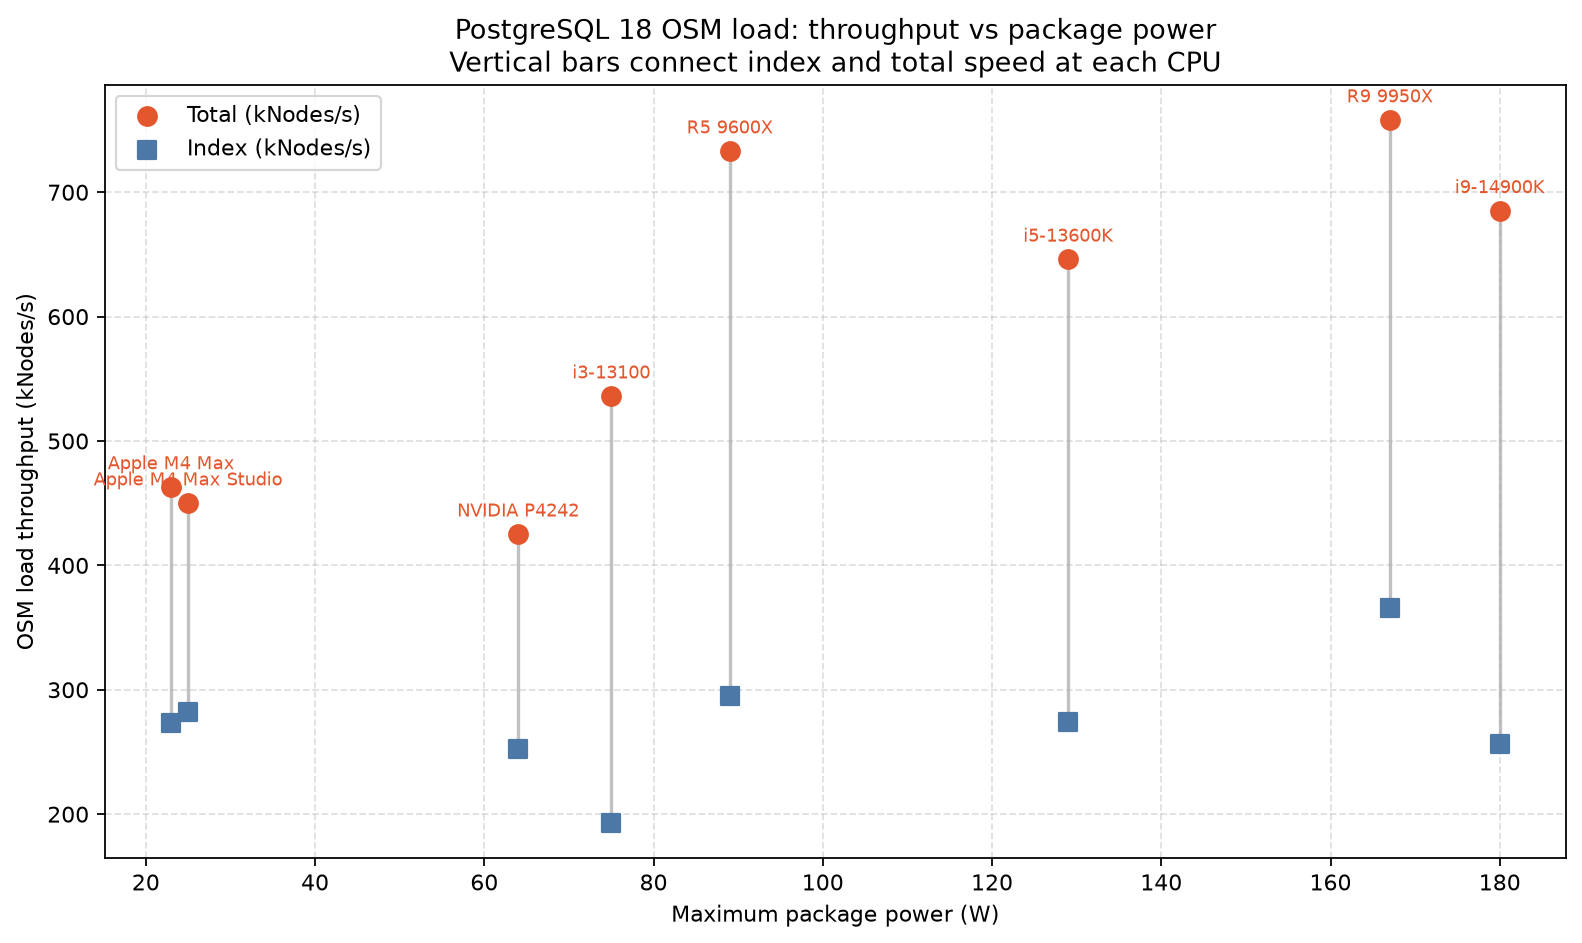
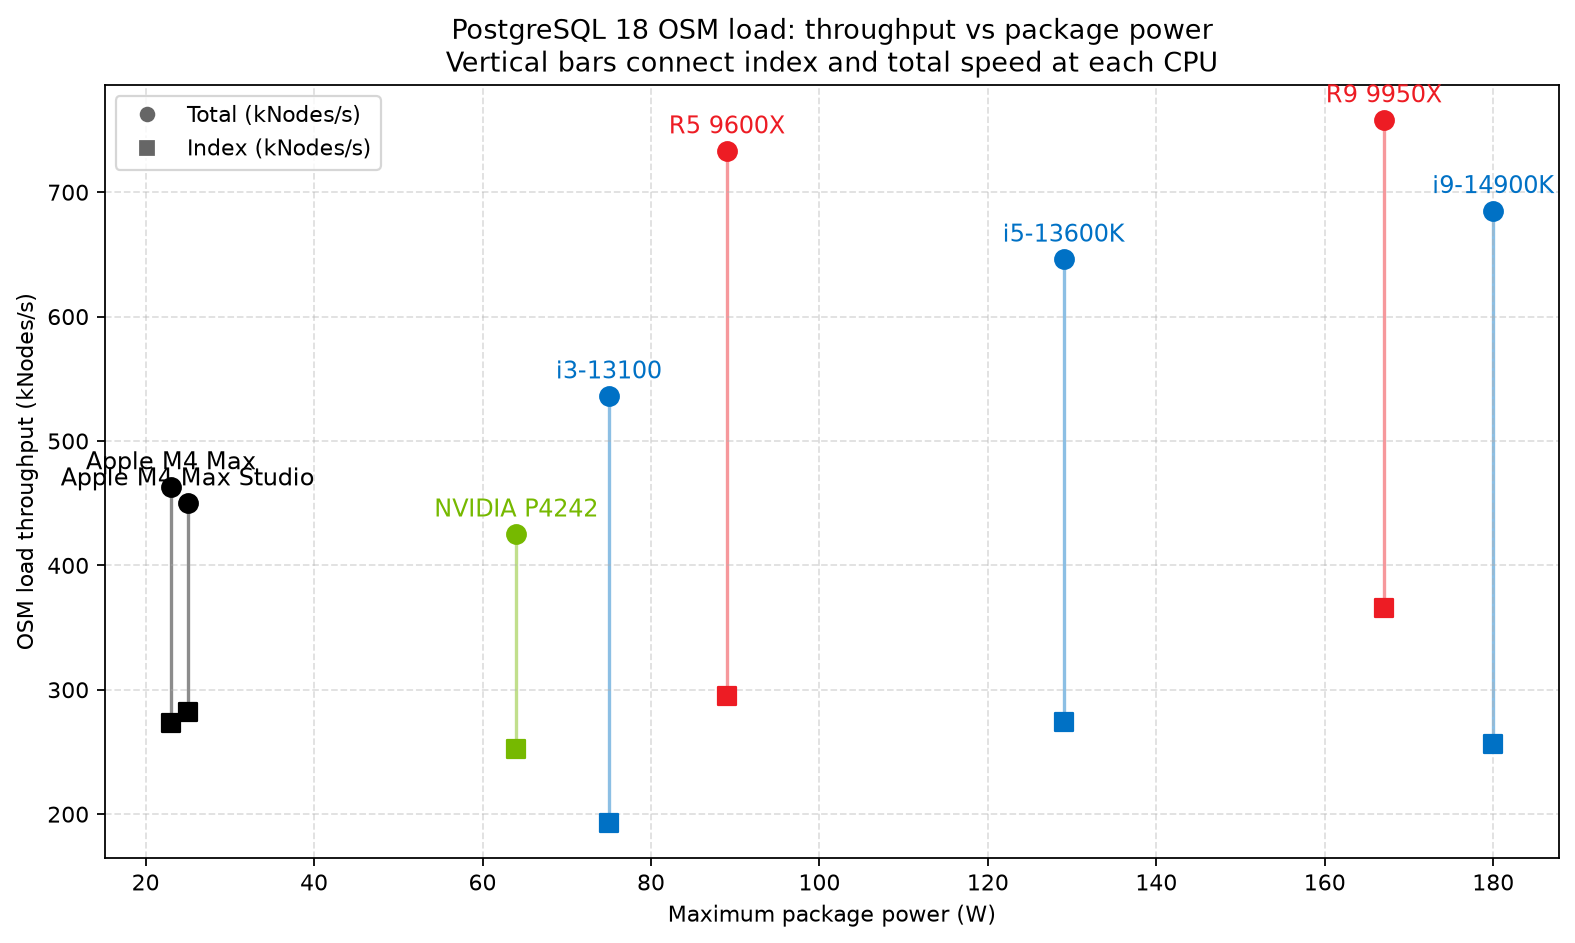
Color PG18 OSM power charts by CPU vendor and improve labels.
Complete cpu_c in the snapshot table and use brand colors on throughput and efficiency graphs, with larger labels and a matching legend order.

diff --git a/reports/osm-power.py b/reports/osm-power.py
@@ -17,6 +17,8 @@ import sys
 from pathlib import Path
 
 import matplotlib.pyplot as plt
+from matplotlib.lines import Line2D
+from matplotlib.patches import Patch
 import pandas as pd
 from matplotlib.ticker import ScalarFormatter
 
@@ -28,8 +30,13 @@ DEFAULT_SNAPSHOT = REPO_ROOT / "docs/results-summary/pg18/osm-power.md"
 DEFAULT_THROUGHPUT = REPO_ROOT / "docs/images/pg18-osm-power.png"
 DEFAULT_EFFICIENCY = REPO_ROOT / "docs/images/pg18-osm-power-efficiency.png"
 
-NODES_COLOR = "#e4572e"
-INDEX_COLOR = "#4c78a8"
+DEFAULT_POINT_COLOR = "#333333"
+INDEX_BAR_ALPHA = 0.45
+POINT_LABEL_FONTSIZE = 11
+
+
+def row_color(row: pd.Series) -> str:
+    return str(row.get("cpu_c", "")).strip() or DEFAULT_POINT_COLOR
 
 
 def parse_args() -> argparse.Namespace:
@@ -69,43 +76,39 @@ def plot_throughput_vs_power(df: pd.DataFrame, output: Path, show: bool = False)
     fig, ax = plt.subplots(figsize=(10, 6))
 
     for _, row in df.iterrows():
+        color = row_color(row)
         ax.plot(
             [row["max_pkg"], row["max_pkg"]],
             [row["index_kips"], row["nodes_kips"]],
-            color="#999999",
+            color=color,
             linewidth=1.5,
-            alpha=0.6,
+            alpha=0.45,
             zorder=1,
         )
-
-    ax.scatter(
-        df["max_pkg"],
-        df["nodes_kips"],
-        marker="o",
-        s=70,
-        color=NODES_COLOR,
-        label="Total (kNodes/s)",
-        zorder=3,
-    )
-    ax.scatter(
-        df["max_pkg"],
-        df["index_kips"],
-        marker="s",
-        s=70,
-        color=INDEX_COLOR,
-        label="Index (kNodes/s)",
-        zorder=3,
-    )
-
-    for _, row in df.iterrows():
+        ax.scatter(
+            row["max_pkg"],
+            row["nodes_kips"],
+            marker="o",
+            s=70,
+            color=color,
+            zorder=3,
+        )
+        ax.scatter(
+            row["max_pkg"],
+            row["index_kips"],
+            marker="s",
+            s=70,
+            color=color,
+            zorder=3,
+        )
         ax.annotate(
             row["cpu"],
             xy=(row["max_pkg"], row["nodes_kips"]),
             xytext=(0, 8),
             textcoords="offset points",
             ha="center",
-            fontsize=8,
-            color=NODES_COLOR,
+            fontsize=POINT_LABEL_FONTSIZE,
+            color=color,
         )
 
     ax.set_xlabel("Maximum package power (W)")
@@ -115,7 +118,13 @@ def plot_throughput_vs_power(df: pd.DataFrame, output: Path, show: bool = False)
         "Vertical bars connect index and total speed at each CPU"
     )
     ax.grid(True, linestyle="--", alpha=0.4)
-    ax.legend(loc="upper left")
+    ax.legend(
+        handles=[
+            Line2D([0], [0], marker="o", color="w", markerfacecolor="#666666", markersize=8, label="Total (kNodes/s)"),
+            Line2D([0], [0], marker="s", color="w", markerfacecolor="#666666", markersize=8, label="Index (kNodes/s)"),
+        ],
+        loc="upper left",
+    )
     plain_axis(ax)
 
     fig.tight_layout()
@@ -131,16 +140,31 @@ def plot_efficiency(df: pd.DataFrame, output: Path, show: bool = False) -> None:
     plot_df = df.sort_values("nodes_per_watt", ascending=True).reset_index(drop=True)
     y = range(len(plot_df))
     height = 0.35
+    colors = [row_color(row) for _, row in plot_df.iterrows()]
 
     fig, ax = plt.subplots(figsize=(10, 6))
-    ax.barh([i - height / 2 for i in y], plot_df["nodes_per_watt"], height=height, color=NODES_COLOR, label="Total / W")
-    ax.barh([i + height / 2 for i in y], plot_df["index_per_watt"], height=height, color=INDEX_COLOR, label="Index / W")
+    ax.barh([i - height / 2 for i in y], plot_df["nodes_per_watt"], height=height, color=colors)
+    ax.barh(
+        [i + height / 2 for i in y],
+        plot_df["index_per_watt"],
+        height=height,
+        color=colors,
+        alpha=INDEX_BAR_ALPHA,
+    )
     ax.set_yticks(list(y))
-    ax.set_yticklabels(plot_df["cpu"])
+    ax.set_yticklabels(plot_df["cpu"], fontsize=POINT_LABEL_FONTSIZE)
+    for tick, color in zip(ax.get_yticklabels(), colors):
+        tick.set_color(color)
     ax.set_xlabel("Throughput per maximum package watt (kNodes/s per W)")
     ax.set_title("PostgreSQL 18 OSM load: efficiency vs package power envelope")
     ax.grid(True, axis="x", linestyle="--", alpha=0.4)
-    ax.legend(loc="lower right")
+    ax.legend(
+        handles=[
+            Patch(facecolor="#666666", alpha=INDEX_BAR_ALPHA, label="Index / W"),
+            Patch(facecolor="#666666", label="Total / W"),
+        ],
+        loc="lower right",
+    )
     plain_axis(ax, y=False)
 
     fig.tight_layout()

diff --git a/docs/results-summary/pg18/osm-power.md b/docs/results-summary/pg18/osm-power.md
@@ -33,9 +33,9 @@ _Query returned 8 rows._
 | i9-14900K | 125 | 685.0 | 256.0 | est | 180.0 |  | off | 20.5 | 83.0 | 7763.0 | 68.0 | 5603.0 | #0071C5 |
 | i5-13600K | 188 | 646.0 | 274.0 |  | 129.0 | 47.0 | off | 17.8 | 52.0 | 8230.0 | 41.0 | 5848.0 | #0071C5 |
 | i3-13100 | 125 | 536.0 | 193.0 | est | 75.0 |  | on | 43.0 | 67.0 | 4141.0 | 47.0 | 4329.0 | #0071C5 |
-| Apple M4 Max | 128 | 463.0 | 273.0 |  | 23.0 | 8.0 | off | 12.8 | 348.0 | 4763.0 | 348.0 | 4763.0 | #555555 |
-| Apple M4 Max Studio | 128 | 450.0 | 282.0 |  | 25.0 | 5.0 | off | 12.4 | 196.0 | 5148.0 | 196.0 | 5148.0 | #555555 |
-| NVIDIA P4242 | 119 | 425.0 | 252.0 |  | 64.0 | 25.0 | off | 11.7 | 137.0 | 6597.0 | 112.0 | 6625.0 |  |
+| Apple M4 Max | 128 | 463.0 | 273.0 |  | 23.0 | 8.0 | off | 12.8 | 348.0 | 4763.0 | 348.0 | 4763.0 | #000000 |
+| Apple M4 Max Studio | 128 | 450.0 | 282.0 |  | 25.0 | 5.0 | off | 12.4 | 196.0 | 5148.0 | 196.0 | 5148.0 | #000000 |
+| NVIDIA P4242 | 119 | 425.0 | 252.0 |  | 64.0 | 25.0 | off | 11.7 | 137.0 | 6597.0 | 112.0 | 6625.0 | #76B900 |
 
 ## Relation power efficiency
 
